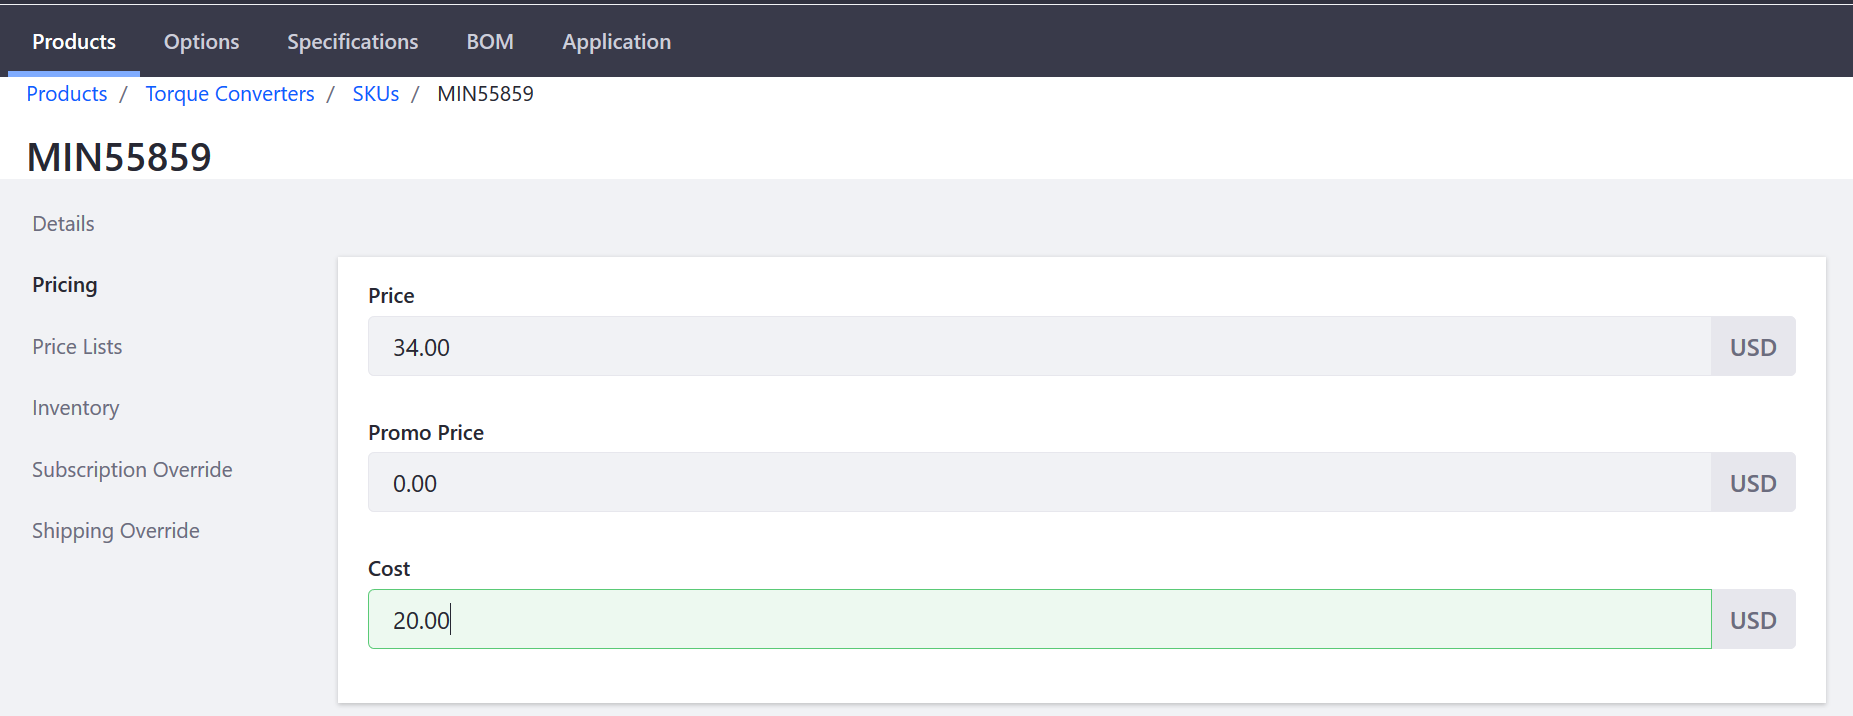
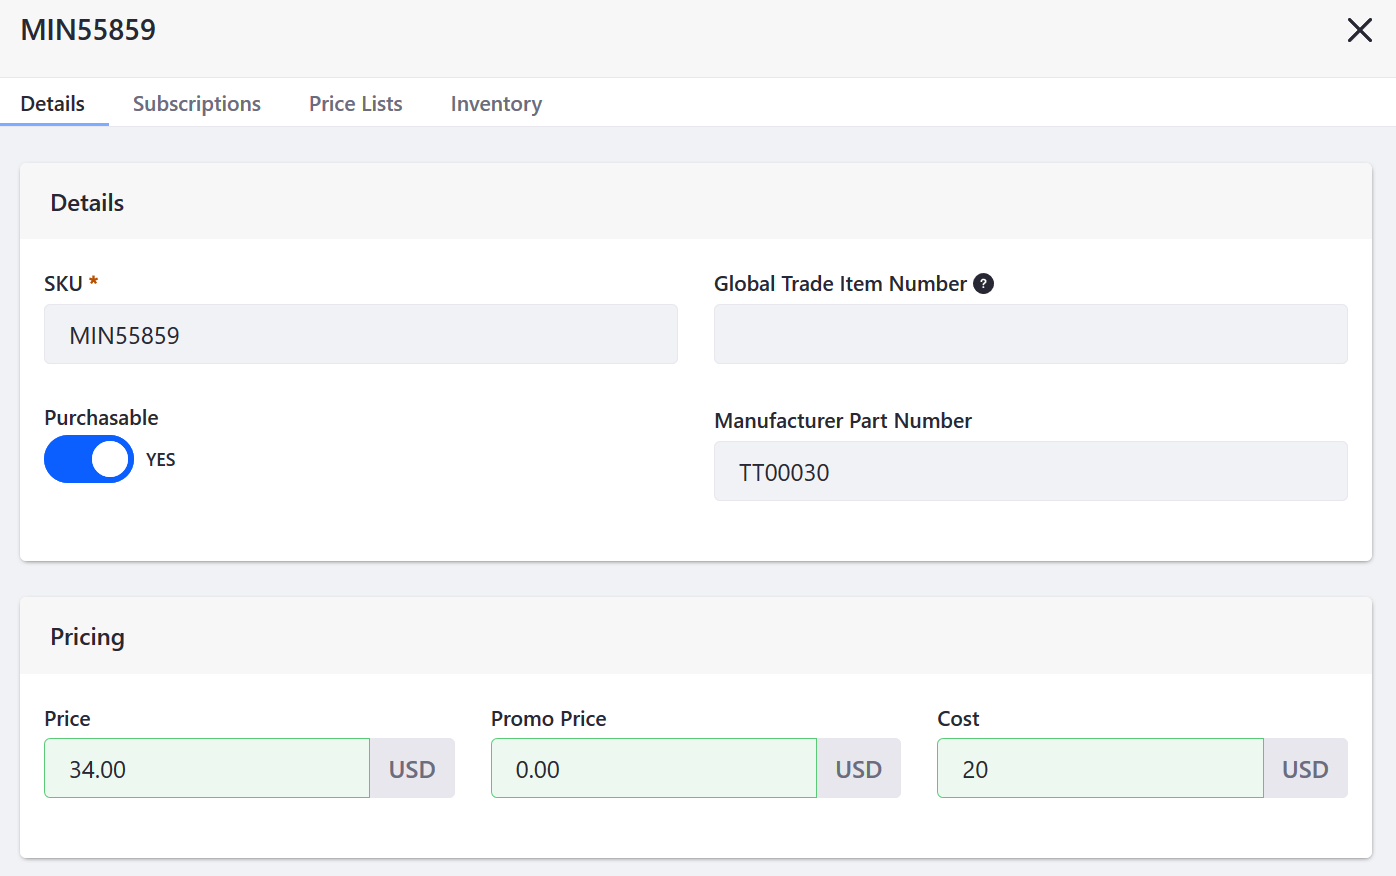
Removed 2.0 for Setting a Product's Base Price

diff --git a/docs/commerce/2.x/en/managing-a-catalog/managing-price/setting-a-products-base-price.md b/docs/commerce/2.x/en/managing-a-catalog/managing-price/setting-a-products-base-price.md
@@ -11,25 +11,9 @@ Each product SKU must have at a set base price. To assign one price to one SKU:
     * **Promo Price**: (leave it blank) (If you enter this field, then both the price above and promo price will appear on the product page so that buyers can see the markdown.)
     * **Cost**: 20
 
-    ![Setting a product's base price in 2.1](./setting-a-products-base-price/images/02.png)
+    ![Setting a product's base price in 2.1](./setting-a-products-base-price/images/01.png)
 
 1. Click _Publish_.
-
-## Commerce 2.0 and Below
-
-1. Navigate to the _Control Panel_ → _Commerce_ → _Products_.
-1. Click on a product (_Torque Converters_ in this example).
-1. Click the _SKUs_ sub-tab.
-1. Click on a SKU (_MIN55859_ in this example).
-1. Click _Pricing_.
-1. Enter the following fields (example values shown below):
-    * **Price**: 34.00
-    * **Promo Price**: (leave it blank) (If you enter this field, then both the price above and promo price will appear on the product page so that buyers can see the markdown.)
-    * **Cost**: 20.00
-
-    ![Setting a product's base price](./setting-a-products-base-price/images/01.png)
-
-1. Click Save.
 
 This product SKU’s base price, promo price (optional), and cost (optional) have been set. The _Cost_ field corresponds to your cost for this SKU which can help you track margins.
 
